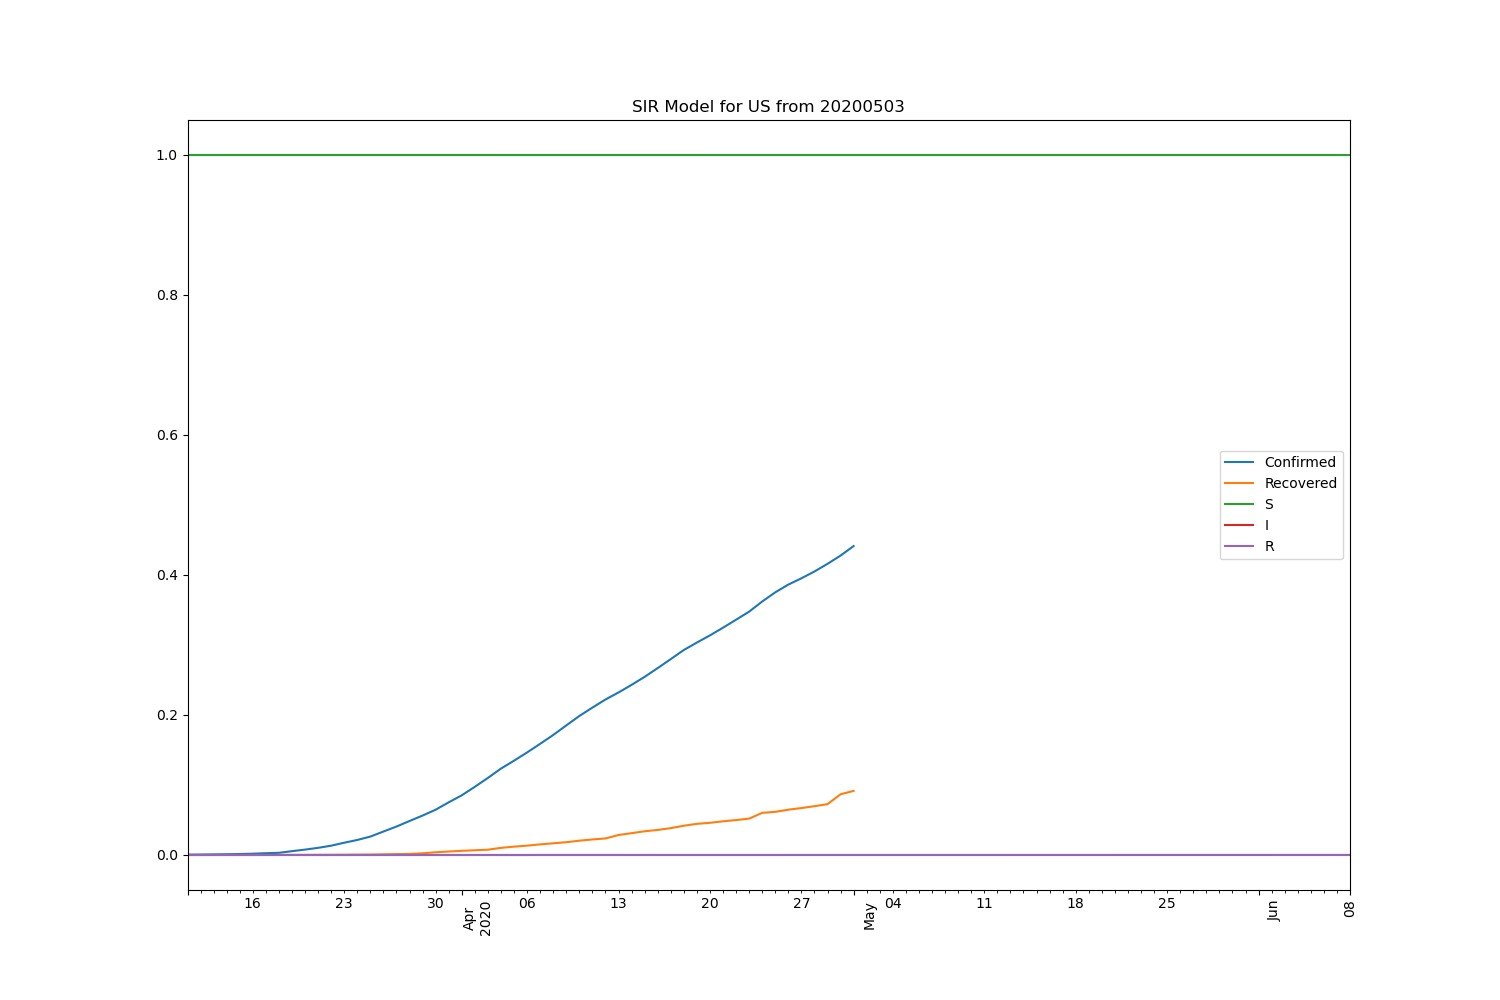
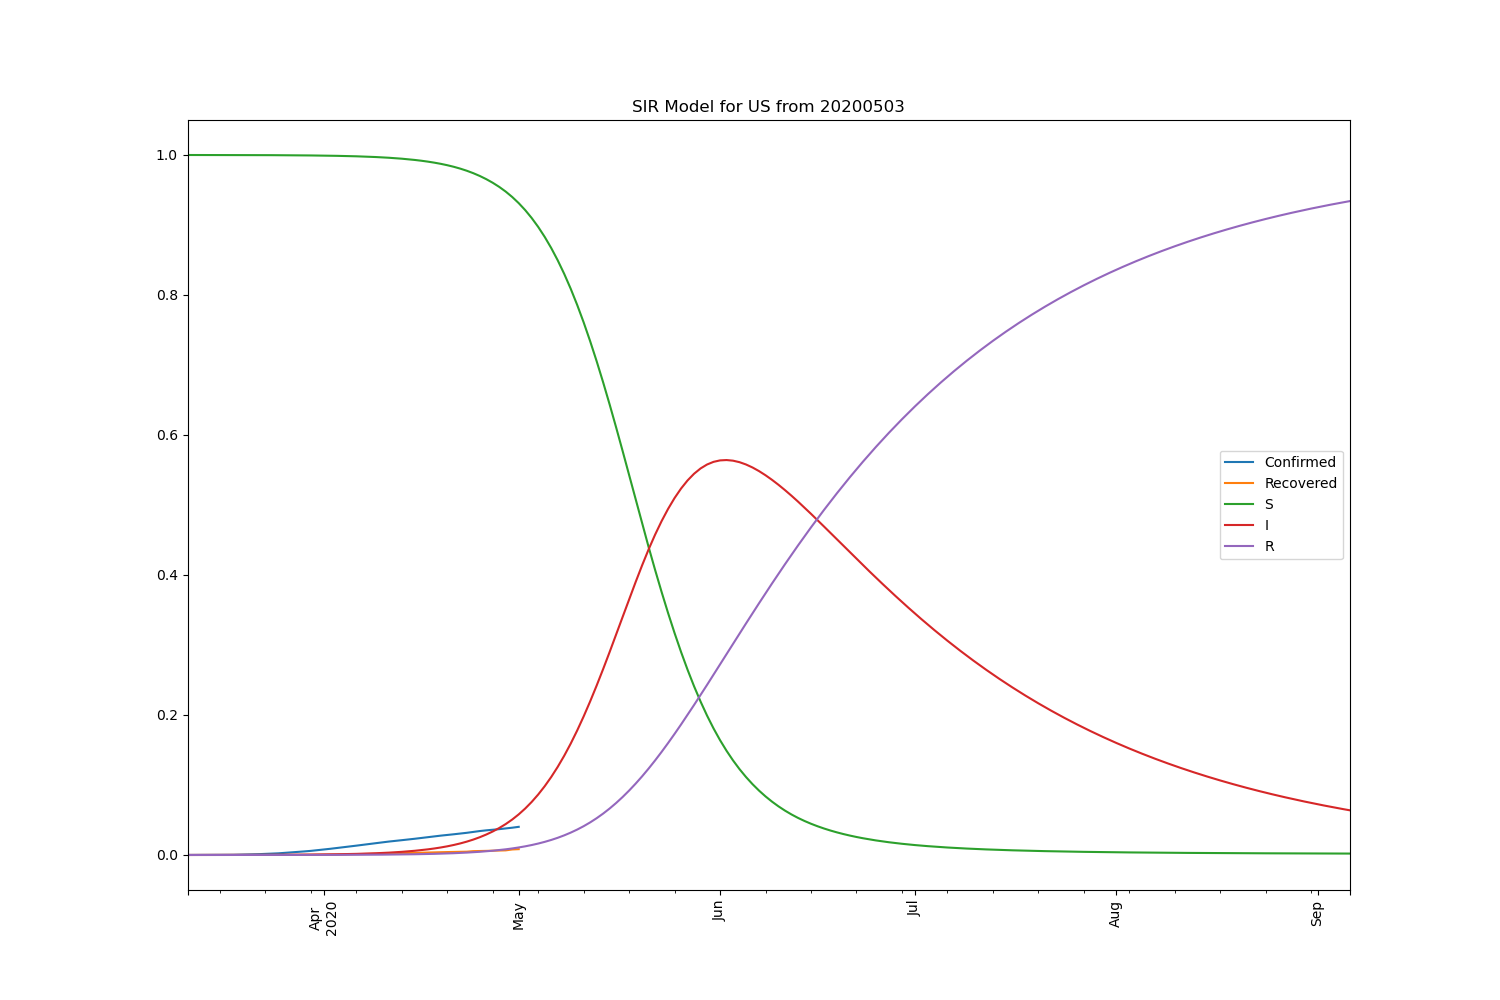
changed minimize to differential function which works better with discrete data. Kept the normalized data points to speed up solve_ivp

diff --git a/sir_learner.py b/sir_learner.py
@@ -14,10 +14,10 @@ import matplotlib.dates as mdates
 
 COUNTRY_POPULATIONS = {"China":1433783686, "US":329064917, "Japan":126860301, "United Kingdom":67530172, "Italy":60550075, "Canada":37411047}
 itterations = 0
-def minimize_callback(vector):
+def minimize_callback(vector,convergence):
     global itterations
     itterations+=1
-    print(f"{itterations}: {vector}")
+    #print(f"{itterations}: {vector} {convergence}")
 
 def start():
     PATH_BASE = os.path.expanduser('~/projects/COVID-19/csse_covid_19_data/csse_covid_19_time_series')
@@ -38,9 +38,7 @@ def loss(point, confirmed, recovered,initial):
     beta, gamma = point
     
     #restrict solutions to an acceptable r0 value
-    r0 = beta/gamma 
-    if r0 <= 1:
-        return 100000000
+    r0 = beta/gamma
 
     def SIR(t, y):
         S = y[0]
@@ -53,19 +51,19 @@ def loss(point, confirmed, recovered,initial):
     l2 = np.sqrt(np.mean((solution.y[2] - recovered)**2))      
     l1 = np.sqrt(np.mean((solution.y[1] - confirmed)**2))
     # Put more emphasis on recovered people
-    alpha = 0.1
+    alpha = 0.25
     return alpha * l1 + (1 - alpha) * l2
 
 class SirLearner(object):
-    def __init__(self, path_confirmed,path_recovered, path_deaths,country, S_0=2500000, I_0 = 1000, duration=90):
+    def __init__(self, path_confirmed,path_recovered, path_deaths,country, S_0=COUNTRY_POPULATIONS['US']/12, I_0 = 1000, duration=180):
         self.path_confirmed = path_confirmed
         self.path_recovered = path_recovered
         self.path_deaths = path_deaths
         self.country = country
 
         self.S_0 = S_0
-        
-        self.initial = [S_0/S_0,I_0/S_0,0]
+        self.initial = [S_0,I_0,0]
+        self.initial = [x/S_0 for x in self.initial]
         self.duration = duration
 
 
@@ -90,12 +88,10 @@ class SirLearner(object):
         #start the minimize
         start = datetime.now()
         print(f'Starting minimize on {start}')
-        optimal = minimize(
+        optimal = differential_evolution(
             loss,
-            (0.001, 0.0001),
+            [(0.00005, 1), (0.00005, 0.75)],
             args=(confirmed,recovered,self.initial),
-            method='L-BFGS-B',
-            bounds=[(0.00000005, 1), (0.00000005, 0.75)],
             callback=minimize_callback
         )
         beta, gamma = optimal.x
